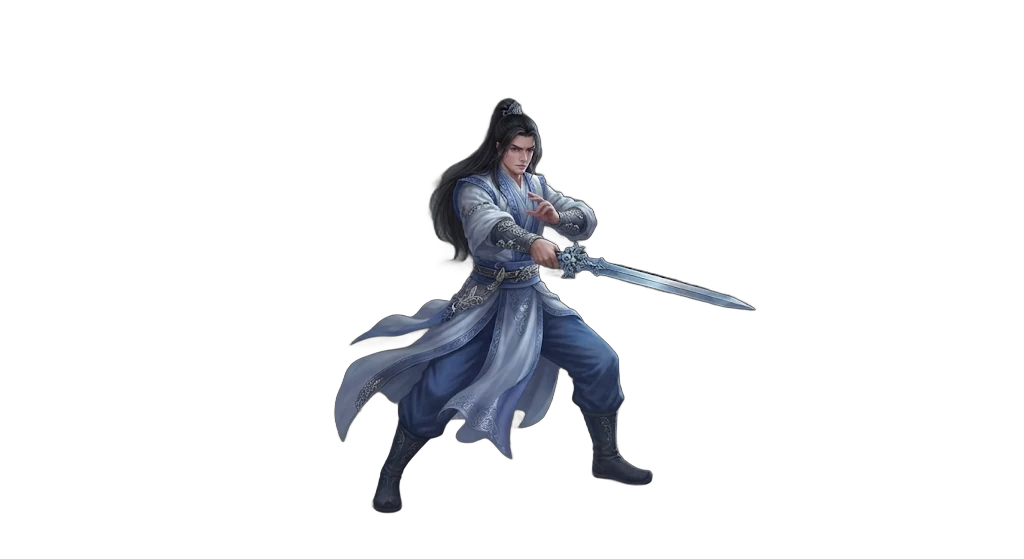
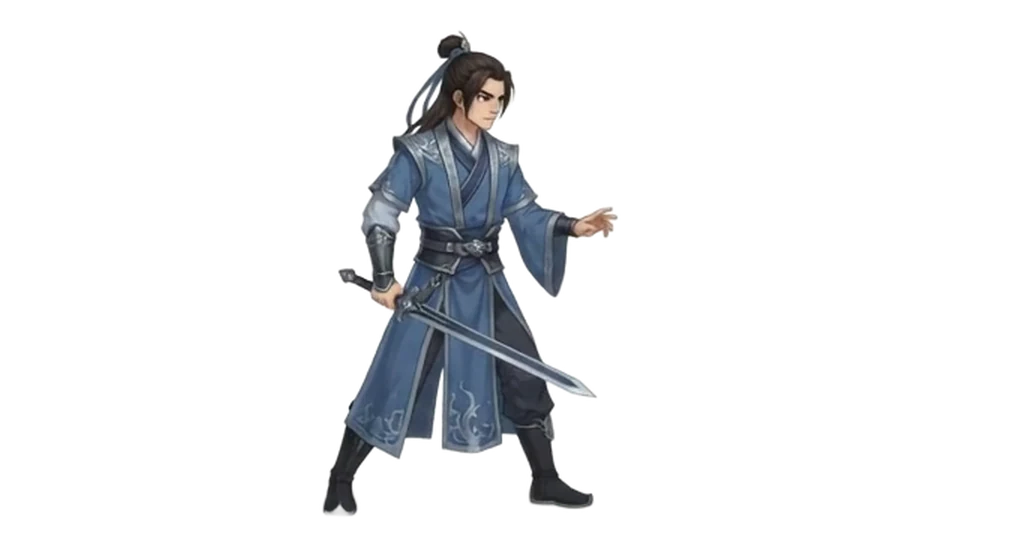
Sword attack from SHOAIB's video: the male cultivator spins a blue Qi slash, then cuts down
The male fighter's attack on the website fight screen now plays frame by frame from the
video (41 frames cut out with rembg, the video's white motion blur recoloured into blue Qi):
raise the sword, spin it round while closing in, lift it overhead, cut down through the beast
(the blue slash trail and the hit land here), settle back on guard. Break plays it a little
slower with the gold slash and a shake. His idle/wind-up/strike stills come from the same
video. The female cultivator keeps her three poses. Visual only: no combat numbers change.

Claude-Session: https://claude.ai/code/session_018PQaDK2secfZA5tnEMdWag

Changed region(s): [[0.3125, 0.0608, 0.75, 0.9428]]

diff --git a/web/static/fight.js b/web/static/fight.js
@@ -71,6 +71,16 @@
   };
   var GAP = 160;
 
+  /* the frame-by-frame sword attack (looks.ATTACK_SHEETS, from SHOAIB's video): [ms, frame] keys, played in between.
+     He raises the blade behind him (0-6), spins it round in a blue Qi arc while he closes in (7-14), lifts it overhead
+     (15-28), cuts down and forward through the beast (29-34, the hit) and settles back on guard (35-40). */
+  var BLADE = {
+    strike: {keys: [[0, 0], [210, 6], [470, 14], [640, 23], [720, 28], [840, 34], [1150, 40]],
+             dash: [180, 560], swing: 720, hit: 800, back: [860, 1200], end: 1260, knock: 0.024},
+    break:  {keys: [[0, 0], [250, 6], [540, 14], [730, 23], [820, 28], [960, 34], [1300, 40]],
+             dash: [200, 640], swing: 820, hit: 910, back: [980, 1340], end: 1400, knock: 0.042, shake: true}
+  };
+
   function ease(x) { return x < 0 ? 0 : x > 1 ? 1 : 1 - Math.pow(1 - x, 3); }
   function inout(x) { return x < 0.5 ? 2 * x * x : 1 - Math.pow(-2 * x + 2, 2) / 2; }
   function span(t, a, b) { return Math.max(0, Math.min(1, (t - a) / (b - a))); }
@@ -96,6 +106,7 @@
     var maxHp = {me: +main.dataset.maxMe || 0, enemy: +main.dataset.maxEnemy || 0};
     function heavy(who, dmg) { return maxHp[who] && dmg >= maxHp[who] * 0.2 ? ' big' : ''; }   // a fifth of the HP or more
     var trail = fighter.querySelector('.trailfx');
+    var sheet = fighter.querySelector('.sheetfx');              // a frame-by-frame attack, when this look has one
     var claws = fighter.querySelector('.clawsfx g'), clawClip = fighter.querySelector('#clawclip rect');
     var fr = fighter.getBoundingClientRect(), br = beastBox.getBoundingClientRect();
     var reachMe = Math.max(0, br.left + br.width * 0.12 - (fr.left + fr.width * (parseFloat(fighter.dataset.tip) || 0.962)));     // sword tip to the beast
@@ -141,6 +152,7 @@
 
     /* your weapon attack: wind up, dash, swing with a trail, then step back */
     function attack(ev) {
+      if (sheet) return sweep(ev);
       var R = RECIPES[ev.act] || RECIPES.strike, done = false;
       if (ev.hit) hold('enemy');
       fighter.dataset.trail = ev.act;
@@ -153,6 +165,47 @@
         hero(x, y);
         trail.style.clipPath = 'inset(0 ' + (100 - 100 * span(t, R.swing - 20, R.hit + 10)) + '% 0 0)';     // sweeps left to right
         trail.style.opacity = t < R.swing - 20 ? 0 : 1 - span(t, R.hit + 60, R.hit + 300);
+        var k2 = ev.hit ? knocked(t - R.hit, R.knock * W) : [0, 0];
+        animal(k2[0], 0, k2[0] / (R.knock * W || 1) * 5, k2[1]);
+        if (t >= R.hit && !done) {
+          done = true;
+          var p = at(br, 0.12, 0.42);
+          if (ev.hit) {
+            drop('enemy'); pop(beastBox, 'hit' + heavy('enemy', ev.dmg), '−' + ev.dmg); burst('tspark', p[0], p[1]);
+            if (R.shake && scene.animate) scene.animate([{transform: 'none'}, {transform: 'translate(-7px,4px)'}, {transform: 'translate(7px,-4px)'},
+              {transform: 'translate(-4px,2px)'}, {transform: 'none'}], {duration: 380});
+          } else {
+            burst('tring', p[0] + 4, p[1] + 6); pop(beastBox, 'word', ev.blocked ? 'Blocked' : 'Missed');
+          }
+        }
+      }};
+    }
+
+    /* the same attack, frame by frame from the video: the spin closes the distance, the forward cut lands */
+    function sweep(ev) {
+      var R = BLADE[ev.act] || BLADE.strike, done = false;
+      var n = +sheet.dataset.frames, cols = +sheet.dataset.cols, rows = +sheet.dataset.rows;
+      if (ev.hit) hold('enemy');
+      fighter.dataset.trail = ev.act;
+      function show(f) {
+        f = Math.max(0, Math.min(n - 1, Math.round(f)));
+        sheet.style.backgroundPosition = (f % cols) / (cols - 1) * 100 + '% ' + Math.floor(f / cols) / (rows - 1) * 100 + '%';
+      }
+      return {end: R.end, render: function (t) {
+        if (t < 0 || t >= R.end) { pose('idle'); hero(0, 0); }
+        else {
+          pose('sheet');
+          var f = R.keys[R.keys.length - 1][1];
+          for (var j = 1; j < R.keys.length; j++) {
+            if (t < R.keys[j][0]) { var a = R.keys[j - 1], b = R.keys[j]; f = a[1] + (b[1] - a[1]) * span(t, a[0], b[0]); break; }
+          }
+          show(f);
+          var x = reachMe * inout(span(t, R.dash[0], R.dash[1])), y = 0;
+          if (t >= R.back[0]) { var r = inout(span(t, R.back[0], R.back[1])); x = reachMe * (1 - r); y = -0.03 * W * Math.sin(Math.PI * r); }
+          hero(x, y);
+        }
+        trail.style.clipPath = 'inset(0 ' + (100 - 100 * span(t, R.swing - 20, R.hit + 10)) + '% 0 0)';
+        trail.style.opacity = t < R.swing - 20 ? 0 : 1 - span(t, R.hit + 60, R.hit + 320);
         var k2 = ev.hit ? knocked(t - R.hit, R.knock * W) : [0, 0];
         animal(k2[0], 0, k2[0] / (R.knock * W || 1) * 5, k2[1]);
         if (t >= R.hit && !done) {

diff --git a/web/templates/explore_play.html b/web/templates/explore_play.html
@@ -48,10 +48,12 @@
   <section class="bscene">
     {% if F.me.statuses %}<p class="chips sover sme" aria-label="Your statuses">{% for st in F.me.statuses %}<span class="schip bad">{{ st }}</span>{% endfor %}</p>{% endif %}
     {% if F.enemy.statuses %}<p class="chips sover senemy" aria-label="Beast statuses">{% for st in F.enemy.statuses %}<span class="schip">{{ st }}</span>{% endfor %}</p>{% endif %}
-    <div class="fighter{% if F.me.tip %} sworded{% endif %}" aria-hidden="true" data-pose="idle"{% if F.me.tip %} data-tip="{{ F.me.tip }}"{% endif %}>
+    <div class="fighter{% if F.me.tip %} sworded{% endif %}{% if F.me.sheet %} sheeted{% endif %}" aria-hidden="true" data-pose="idle"{% if F.me.tip %} data-tip="{{ F.me.tip }}"{% endif %}>
       <div class="poses">
         {% for pose, src in F.me.poses.items() %}<img class="pose p-{{ pose }}" src="{{ src }}" alt="" width="1024" height="559">{% endfor %}
         <img class="trailfx" src="/art/fx/slash.webp" alt="" width="1024" height="559">
+        {% if F.me.sheet %}<div class="sheetfx" data-frames="{{ F.me.sheet.frames }}" data-cols="{{ F.me.sheet.cols }}" data-rows="{{ F.me.sheet.rows }}"
+          style="background-image: url({{ F.me.sheet.src }}); background-size: {{ F.me.sheet.cols * 100 }}% {{ F.me.sheet.rows * 100 }}%"></div>{% endif %}
       </div>
       <svg class="clawsfx" viewBox="0 0 1024 559"><defs>
         <linearGradient id="clawg" x1="1" x2="0"><stop offset="0" stop-color="#FF3B4E" stop-opacity="0"/><stop offset=".45" stop-color="#FF4A5C" stop-opacity=".85"/><stop offset="1" stop-color="#FFE3E0"/></linearGradient>

diff --git a/web/static/style.css b/web/static/style.css
@@ -565,6 +565,11 @@ form.inline{display:inline}
 .fighter svg{position:absolute;inset:0;width:100%;height:100%;overflow:visible;pointer-events:none}
 .fighter img.trailfx{position:absolute;left:10.7%;top:-10.4%;width:100%;height:60%;opacity:0;pointer-events:none;filter:drop-shadow(0 0 6px rgba(80,230,255,.5))}
 .fighter[data-trail=break] img.trailfx{filter:hue-rotate(225deg) saturate(1.4) brightness(1.1)}   /* Break: the same slash in gold */
+/* the frame-by-frame sword attack (looks.ATTACK_SHEETS): the video cell sits where the stills put him on the 1024 x 559 canvas */
+.fighter .sheetfx{position:absolute;left:20.3125%;top:.54%;width:46.875%;height:96.6%;visibility:hidden;background-repeat:no-repeat;background-position:0 0;filter:drop-shadow(0 8px 10px rgba(0,0,0,.6))}
+.fighter[data-pose=sheet] .sheetfx{visibility:visible}
+.fighter.sworded.sheeted img.trailfx{left:12%;top:-4%;width:66%;height:66%;filter:drop-shadow(0 0 8px rgba(80,230,255,.7)) brightness(1.15)}
+.fighter.sworded.sheeted[data-trail=break] img.trailfx{filter:hue-rotate(225deg) saturate(1.4) brightness(1.1) drop-shadow(0 0 8px rgba(255,200,80,.7))}
 .clawsfx{filter:drop-shadow(0 0 8px #FF2A3C) drop-shadow(0 0 18px rgba(255,40,60,.6))}
 .fighter::before,.beast::before{content:"";position:absolute;bottom:-2%;height:8%;border-radius:50%;background:radial-gradient(rgba(0,0,0,.6),rgba(0,0,0,0) 70%)}
 .fighter::before{left:36%;width:30%}.beast::before{left:8%;width:84%}

diff --git a/scripts/make_hero_attack.py b/scripts/make_hero_attack.py
@@ -1,0 +1,108 @@
+"""Build the male cultivator's sword-attack frames for the website fight screen from SHOAIB's video.
+
+The video (Gemini, 1280 x 720, 24 fps) is a 4 x 2 grid of the same swordsman. The middle-bottom cell
+(x 320-640, y 360-720) plays one full attack between 2.5 s and 5 s: raise the sword behind, a spinning
+horizontal slash, the sword overhead, a forward diagonal cut, back on guard.
+
+    python scripts/make_hero_attack.py path/to/video.mp4
+
+Needs ffmpeg on PATH, numpy, Pillow and rembg (pip install "rembg[cpu]"; the isnet-general-use model).
+Writes, into art/portraits/fight/:
+  hero_male_attack.webp     the attack, ATTACK_FRAMES frames of 320 x 360 in a COLS-wide grid (fight.js plays them)
+  hero_male_{idle,windup,strike}.webp   stills from the same video on the 1024 x 559 fight canvas
+The video's white motion blur is recoloured into blue Qi, so the spin reads as a Qi slash.
+"""
+import os
+import subprocess
+import sys
+import tempfile
+
+import numpy as np
+from PIL import Image, ImageFilter
+
+CELL = (320, 360, 320, 360)          # w, h, x, y of the attacking cell in the video
+START, LENGTH = 2.5, 2.5             # seconds: frames 1..60 at 24 fps
+FIRST, LAST = 10, 50                 # the attack, frame numbers inside that clip
+SWOOSH = range(16, 34)               # frames whose white motion blur becomes blue Qi
+STILLS = {"idle": 1, "windup": 15, "strike": 42}
+COLS = 8
+SCALE = 1.5                          # cell pixels -> fight-canvas pixels (1024 x 559)
+OFFSET = (208, 3)                    # where the cell's top-left lands on the fight canvas
+OUT = os.path.join(os.path.dirname(os.path.dirname(os.path.abspath(__file__))), "art", "portraits", "fight")
+
+
+def frames(video, tmp):
+    w, h, x, y = CELL
+    subprocess.run(["ffmpeg", "-v", "error", "-y", "-ss", str(START), "-t", str(LENGTH), "-i", video,
+                    "-vf", f"crop={w}:{h}:{x}:{y}", os.path.join(tmp, "%03d.png")], check=True)
+    return [Image.open(os.path.join(tmp, "%03d.png" % i)).convert("RGB") for i in range(1, 61)]
+
+
+def cut(images):
+    from rembg import new_session, remove
+    s = new_session("isnet-general-use")
+    out = []
+    for im in images:
+        big = im.resize((im.width * 2, im.height * 2), Image.LANCZOS)          # the model sees more detail
+        m = remove(big, session=s, only_mask=True).resize(im.size, Image.LANCZOS)
+        rgba = im.convert("RGBA")
+        rgba.putalpha(m)
+        out.append(rgba)
+    return out
+
+
+def qi_swoosh(im):
+    """The white, half-transparent motion blur turns into glowing blue Qi; the body is left alone."""
+    a = np.asarray(im).astype(np.float32) / 255
+    rgb, al = a[..., :3], a[..., 3]
+    lum = rgb.mean(-1)
+    sat = rgb.max(-1) - rgb.min(-1)
+    w = np.clip((lum - 0.45) / 0.25, 0, 1) * np.clip((0.28 - sat) / 0.12, 0, 1) * np.clip((0.97 - al) / 0.25, 0, 1)
+    pale = np.array([0.72, 0.95, 1.0]); deep = np.array([0.20, 0.72, 1.0])
+    tint = deep + (pale - deep) * np.clip((lum[..., None] - 0.5) / 0.4, 0, 1)
+    rgb = rgb * (1 - w[..., None]) + tint * w[..., None]
+    al = np.clip(al + w * al * 0.6, 0, 1)
+    glow = Image.fromarray((w * al * 255).astype(np.uint8)).filter(ImageFilter.GaussianBlur(5))
+    g = np.asarray(glow).astype(np.float32) / 255 * 0.85
+    halo = np.array([0.25, 0.75, 1.0])
+    out_a = al + g * (1 - al)
+    out_rgb = (rgb * al[..., None] + halo * (g * (1 - al))[..., None]) / np.maximum(out_a, 1e-4)[..., None]
+    return Image.fromarray((np.dstack([out_rgb, out_a]) * 255).clip(0, 255).astype(np.uint8), "RGBA")
+
+
+def feather(im, px=10):
+    """Fade the cell's edges so a blade or swoosh cut by the video's grid line ends softly."""
+    w, h = im.size
+    x = np.minimum(np.arange(w), np.arange(w)[::-1]) / px
+    y = np.minimum(np.arange(h), np.arange(h)[::-1]) / px
+    edge = np.clip(np.minimum(x[None, :], y[:, None]), 0, 1)
+    a = np.asarray(im).copy()
+    a[..., 3] = (a[..., 3] * edge).astype(np.uint8)
+    return Image.fromarray(a, "RGBA")
+
+
+def on_canvas(im):
+    big = im.resize((round(im.width * SCALE), round(im.height * SCALE)), Image.LANCZOS)
+    canvas = Image.new("RGBA", (1024, 559), (0, 0, 0, 0))
+    canvas.alpha_composite(big, OFFSET)
+    return canvas
+
+
+def main(video):
+    with tempfile.TemporaryDirectory() as tmp:
+        clip = cut(frames(video, tmp))
+    clip = [feather(qi_swoosh(im) if i + 1 in SWOOSH else im) for i, im in enumerate(clip)]
+    attack = clip[FIRST - 1:LAST]
+    w, h = attack[0].size
+    rows = -(-len(attack) // COLS)
+    sheet = Image.new("RGBA", (w * COLS, h * rows), (0, 0, 0, 0))
+    for i, im in enumerate(attack):
+        sheet.alpha_composite(im, ((i % COLS) * w, (i // COLS) * h))
+    sheet.save(os.path.join(OUT, "hero_male_attack.webp"), quality=82, method=6)
+    for pose, n in STILLS.items():
+        on_canvas(clip[n - 1]).save(os.path.join(OUT, f"hero_male_{pose}.webp"), quality=88, method=6)
+    print(f"{len(attack)} frames, {COLS} x {rows} grid of {w} x {h}")
+
+
+if __name__ == "__main__":
+    main(sys.argv[1])

diff --git a/looks.py b/looks.py
@@ -60,7 +60,10 @@ def portrait(look):
 
 
 POSES = ("idle", "windup", "strike")
-SWORD_POSES = {"male": 0.91, "female": 0.82}   # genders painted in the sword poses: how far the blade reaches (0-1)
+SWORD_POSES = {"male": 0.66, "female": 0.82}   # genders painted in the sword poses: how far the blade reaches (0-1)
+# genders whose sword attack plays frame by frame (scripts/make_hero_attack.py cuts it from SHOAIB's video):
+# a grid of 320 x 360 frames that web/static/fight.js steps through; the stills above come from the same video.
+ATTACK_SHEETS = {"male": {"src": "/art/portraits/fight/hero_male_attack.webp", "frames": 41, "cols": 8, "rows": 6}}
 
 
 def fighter(look, pose="idle"):
@@ -74,6 +77,11 @@ def fighter(look, pose="idle"):
 def sword_tip(look):
     """How far across the fight canvas the weapon reaches in the strike pose (0-1), or None for a single painting."""
     return SWORD_POSES.get(gender_of(look))
+
+
+def attack_sheet(look):
+    """The frame-by-frame sword attack for this look (ATTACK_SHEETS), or None to swing through the three poses."""
+    return ATTACK_SHEETS.get(gender_of(look))
 
 
 def face(look):

diff --git a/tests/test_web_explore.py b/tests/test_web_explore.py
@@ -248,6 +248,20 @@ def test_the_fight_scene_has_the_poses_and_the_turns_events(client):
     assert "data-events='[{" in page and '"act": "strike"' in page
 
 
+def test_the_male_sword_attack_plays_frame_by_frame(client):
+    import looks
+    fight(client)
+    page = client.get("/explore/play").text
+    sheet = looks.ATTACK_SHEETS["male"]
+    assert 'class="sheetfx"' in page and sheet["src"] in page and " sheeted" in page
+    assert f'data-frames="{sheet["frames"]}"' in page and client.get(sheet["src"]).status_code == 200
+    from PIL import Image
+    import os
+    im = Image.open(os.path.join(os.path.dirname(os.path.dirname(__file__)), sheet["src"].lstrip("/")))
+    assert im.size == (320 * sheet["cols"], 360 * sheet["rows"]) and sheet["frames"] <= sheet["cols"] * sheet["rows"]
+    assert looks.attack_sheet({"gender": "female"}) is None                  # she still swings through her three poses
+
+
 def test_battle_history_keeps_every_turn(client):
     s = fight(client)
     b = s.battle

diff --git a/web/explore_play.py b/web/explore_play.py
@@ -490,7 +490,8 @@ def fight_view(conn, s, b, p, now):
         "me": {"name": f.name, "realm": f.realm, "layer": f.layer, "hp": round(f.hp), "max_hp": round(f.max_hp),
                "hp_pct": round(f.hp / max(1, f.max_hp) * 100), "attack": number(round(f.attack)),
                "defense": number(round(f.defense)), "statuses": statuses(f.statuses), "stunned": f.stunned,
-               "face": look_face(p), "poses": look_poses(p), "tip": looks.sword_tip(looks.of_player(p)), "bqi": round(f.bqi), "max_bqi": f.max_bqi,
+               "face": look_face(p), "poses": look_poses(p), "tip": looks.sword_tip(looks.of_player(p)),
+               "sheet": looks.attack_sheet(looks.of_player(p)), "bqi": round(f.bqi), "max_bqi": f.max_bqi,
                "bqi_pct": max(0, min(100, round(f.bqi / max(1, f.max_bqi) * 100))),
                "delta": round(f.hp) - prev["me"] if "me" in prev else 0},
         "enemy": {"name": e["name"], "tier": TIER_LABEL[e["tier"]], "role": e.get("role", "").title(),

diff --git a/docs/web.md b/docs/web.md
@@ -187,8 +187,13 @@ a lair is fought with `bot/hunt.py`.
    Gorge, Thunder Peaks, Northern Sea Wilds), each with open ground across the bottom for the two fighters.
    **The turn is acted out** (`fight.js`, after a move is sent): the fighter and the beast stand apart. For a
    Strike or Break the fighter winds up, dashes in, strikes (the fight script swaps three pose
-   pictures; for now one painting serves all three, `explore_play.look_poses`) with a
-   trail, and steps back; the beast is knocked back, flashes, and its HP bar and the damage number change at the
+   pictures, `explore_play.look_poses`) with a
+   trail, and steps back. The **male** cultivator's attack is played frame by frame from SHOAIB's video
+   (`looks.ATTACK_SHEETS`, `art/portraits/fight/hero_male_attack.webp`, built by `scripts/make_hero_attack.py`):
+   he raises the sword behind him, spins it in a blue Qi arc while closing in, lifts it overhead and cuts down
+   through the beast (the blue slash trail and the hit land on that cut), then settles back on guard (`BLADE` in
+   `fight.js`; Break plays it a little slower with the gold slash and a shake). His idle, wind-up and strike stills
+   come from the same video; the beast is knocked back, flashes, and its HP bar and the damage number change at the
    moment of impact. Then the beast charges in turn: red claw marks, you are knocked back, your HP drops then.
    A Guard that stops it shows a ring and "Blocked", and your counter if any. The order and numbers come from
    `explore_play.events` (read from the engine's log); the browser decides nothing. Each kind of attack is one
